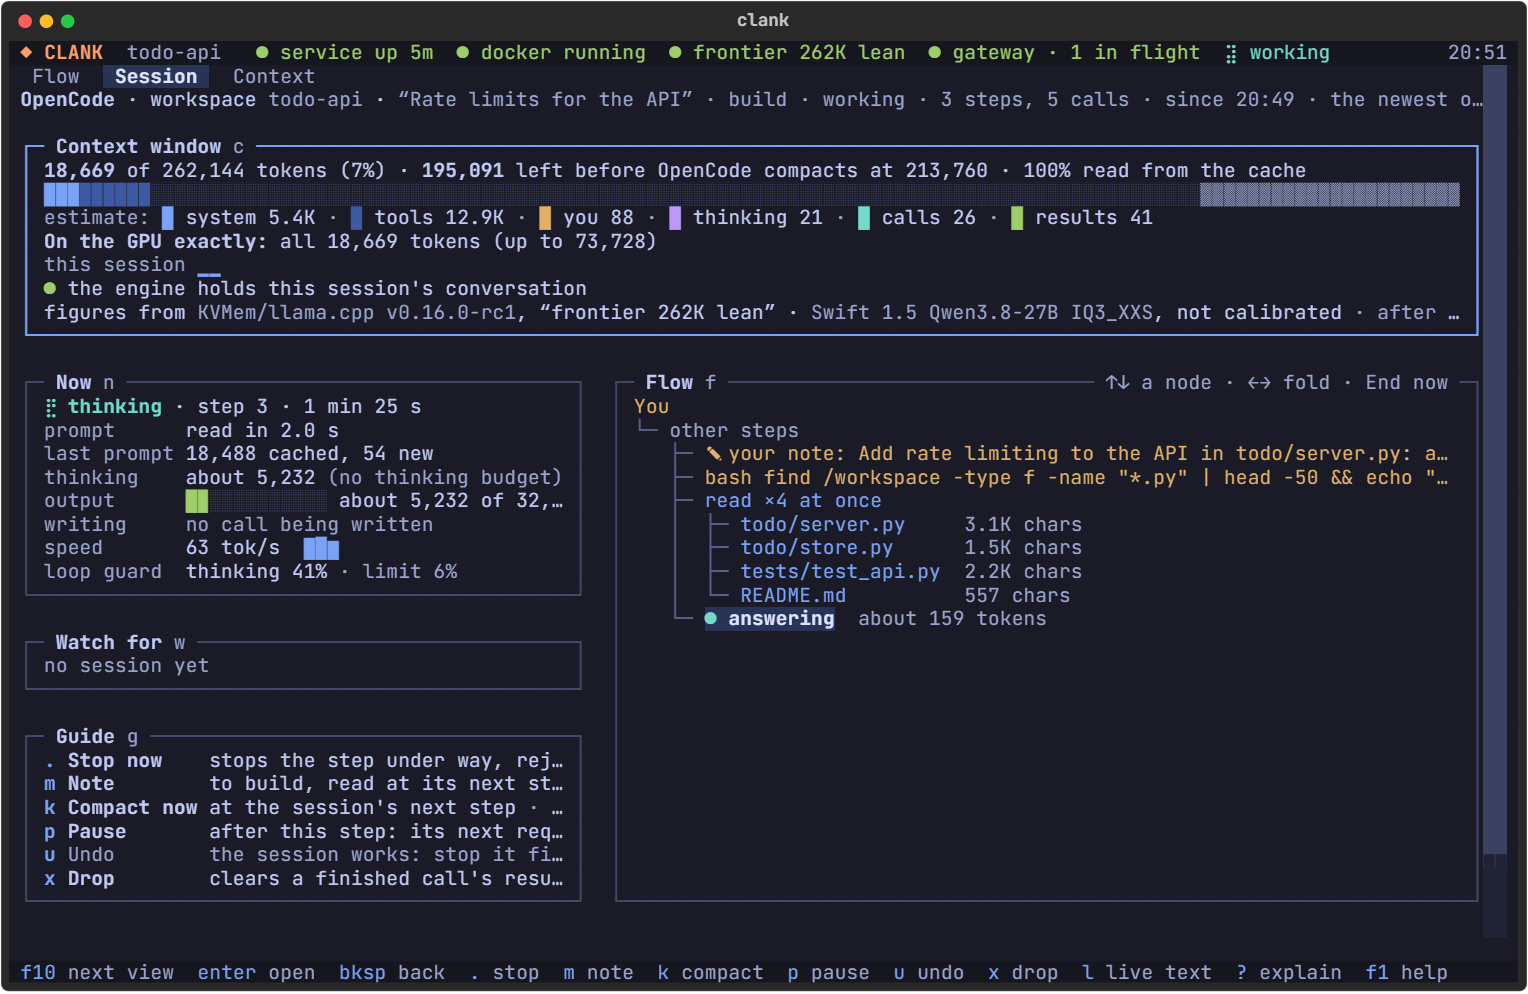
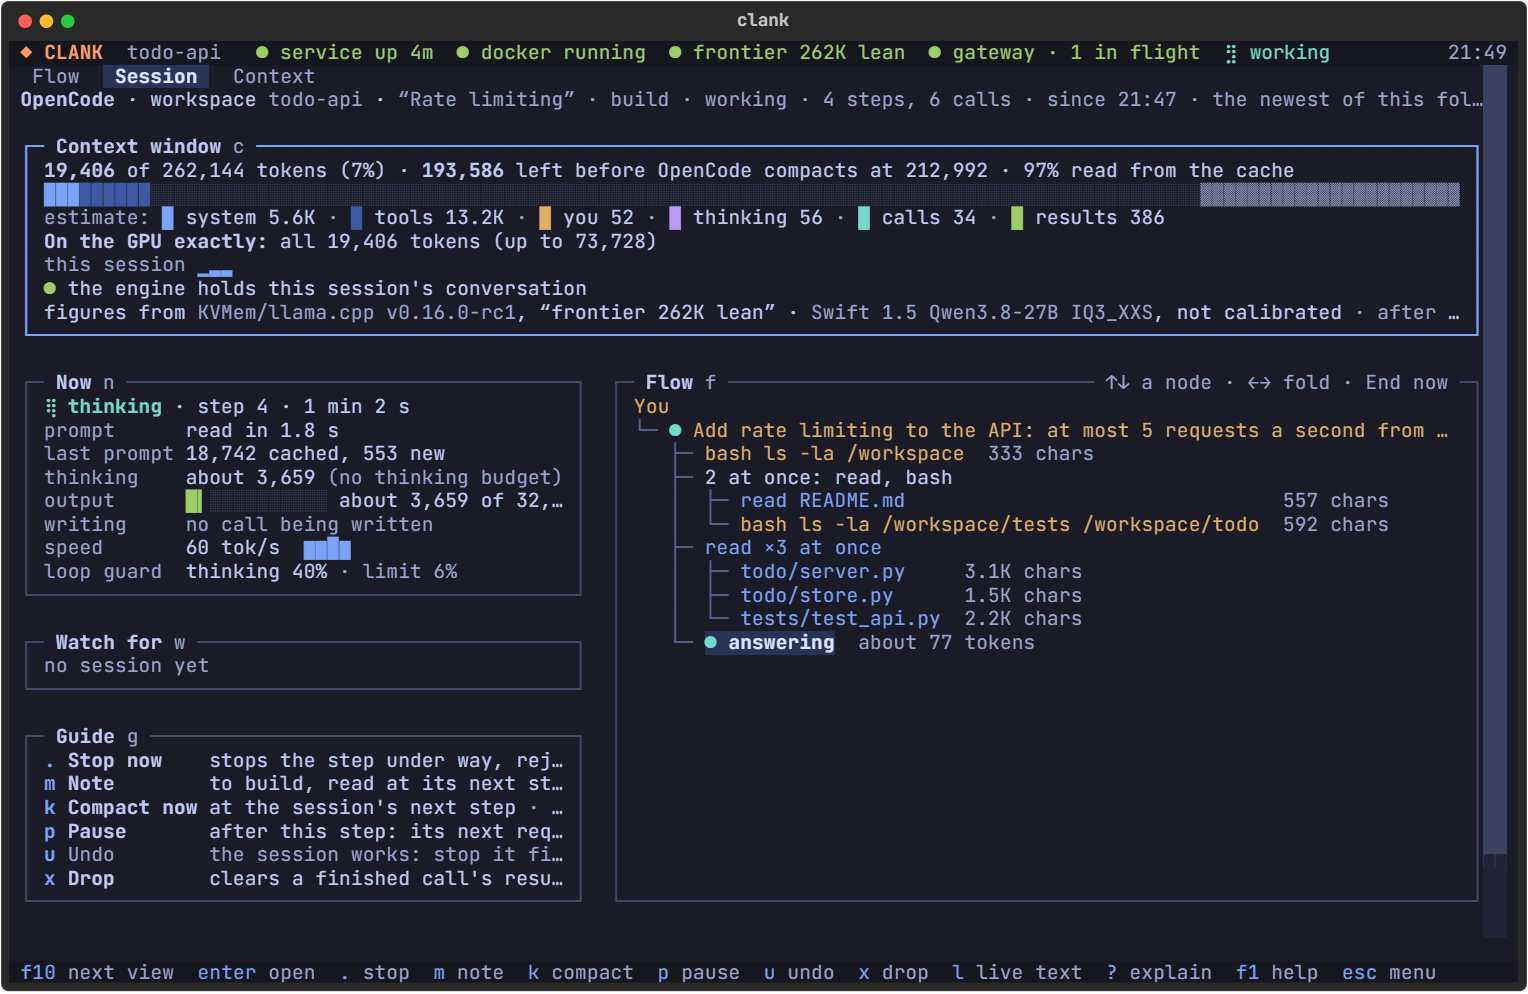
The console's six screenshots, captured again from Clank 0.3.0b7 (2026-11-04): the same demo task run again from its first commit by the model on the RTX 5080 (frontier 262K lean), at 128 by 40 cells. They showed 0.3.0b5's menu, with its list of coming pages, and Backspace as the back key; now the m

diff --git a/src/data/captures.ts b/src/data/captures.ts
@@ -113,7 +113,7 @@ function imageFrames(folder: string): Capture<ImageFrame[]> {
 
 export const phoneFrames = imageFrames('phone');
 export const vscodeFrames = imageFrames('vscode');
-/** The demo session of 2026-10-29, captured from Clank 0.3.0b5 by hand (not clank-bench's): a coding task in VS Code
- * with Clank's agent panel, and the console's pages while it ran. */
+/** The demo sessions, captured by hand (not clank-bench's): a coding task in VS Code with Clank's agent panel
+ * (2026-10-29, Clank 0.3.0b5), and the console's pages while the same task ran again (2026-11-04, Clank 0.3.0b7). */
 export const demoVscodeFrames = imageFrames('demo-vscode');
 export const demoConsoleFrames = imageFrames('demo-console');

diff --git a/scripts/demo/README.md b/scripts/demo/README.md
@@ -1,7 +1,8 @@
 # The demo's screenshots
 
 Home's VS Code and Console tabs and the Features page's screenshots are real: Clank itself, captured while it worked,
-never drawn. They come from a demo session (2026-10-29, Clank 0.3.0b5): a Clank of its own (its own `CLANK_HOME` and
+never drawn. They come from a demo session (VS Code's: 2026-10-29, Clank 0.3.0b5; the console's again: 2026-11-04,
+Clank 0.3.0b7, 128 by 40 cells): a Clank of its own (its own `CLANK_HOME` and
 ports, so it never touches another Clank on the computer), the model on the computer's GPU (frontier 262K lean), and a
 small project, `todo-api` (a to-do API on Python's standard library, with its tests), given one task in plain words:
 add rate limiting, with tests. Nothing in them is personal: the demo's names only.
@@ -12,8 +13,10 @@ How they were made, to make them again:
    18310 and 18311, `runtime.json` 18300 and up, `remote.json` 7821), the host and the engine added (`clank host
    add`, `clank engine adopt`), a model loaded (`clank model load`), and the project opened (`clank workspace open`).
 2. **The task.** `demo.py start todo-api "<title>" "<the task>"` starts a session through Clank's API, as the agent
-   panel does; `demo.py mode todo-api auto` lets it go on without asking; `demo.py get agents/sessions
-   workspace=todo-api` shows a permission waiting.
+   panel does; `demo.py mode todo-api auto` lets it go on without asking (a change already waiting is answered
+   still: `clank questions answer <id> accept`); `demo.py get agents/sessions workspace=todo-api` shows a
+   permission waiting. To run the task again from its start, keep a copy of the project, check out its first
+   commit (and remove the `__pycache__` files a run left untracked), and put the copy back after.
 3. **The console.** `console-shots.py <out> <name>:<page>:<view>:<cols>x<rows>:<wait>` runs Clank's console against
    that service, waits until it has read the session, and saves Textual's own SVG of each page.
 4. **VS Code.** `code serve-web` on the project (Clank's extension installed with the server's own
